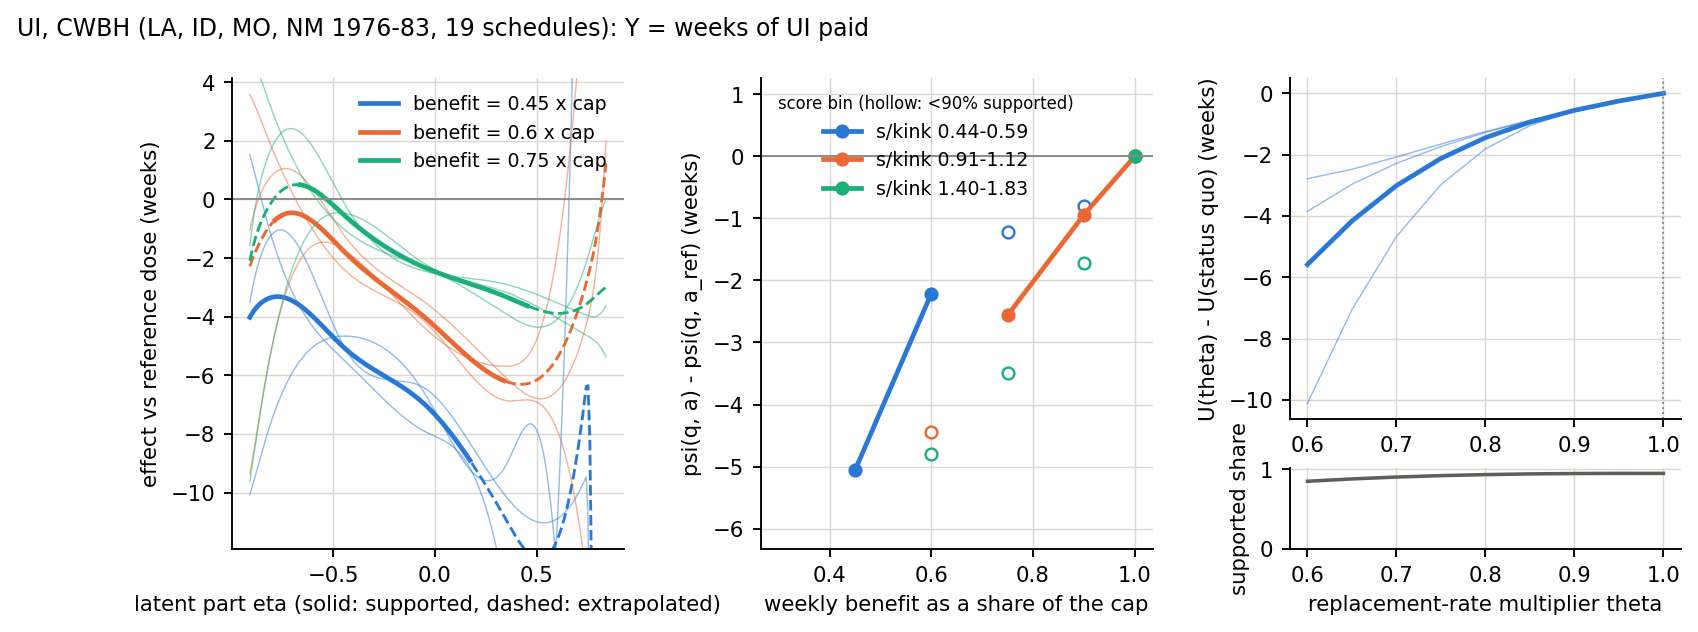
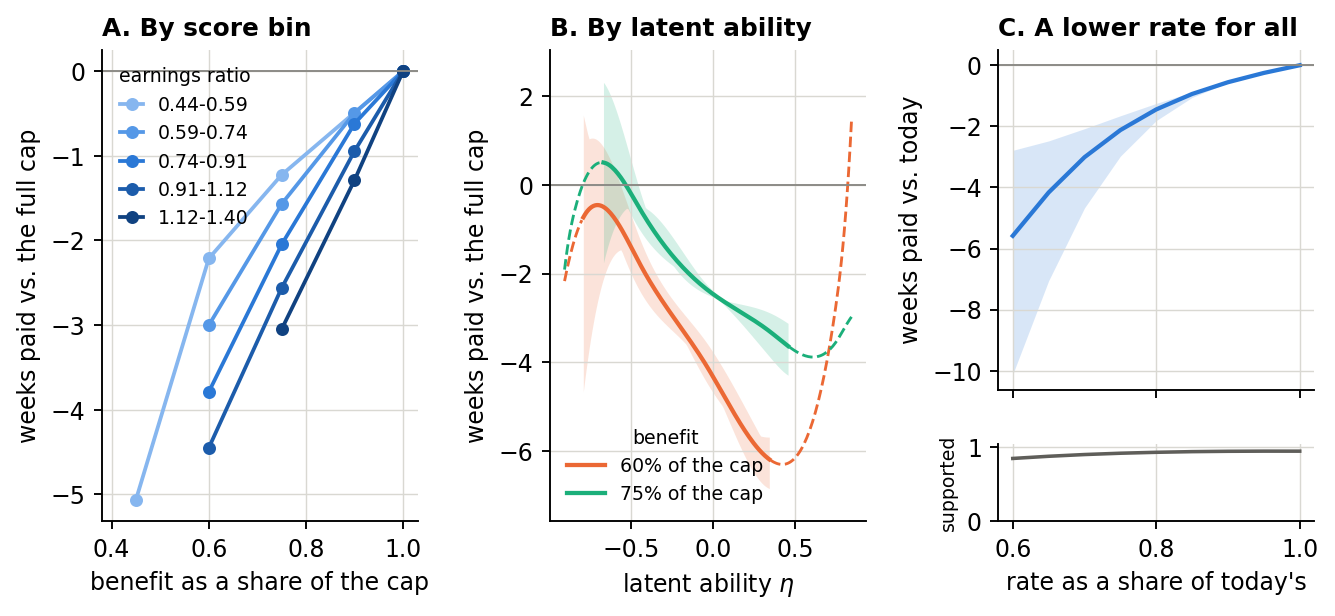
UI Fig. 1 redrawn in plain words (Table 2 bins, rotation bands); research log

diff --git a/experiments/scripts/dose_schedule_figures.py b/experiments/scripts/dose_schedule_figures.py
@@ -141,27 +141,114 @@ def ui(outcome):
     return fig
 
 
+BLUES = ["#86b6ef", "#5598e7", "#2a78d6", "#1c5cab", "#104281"]   # reference ordinal ramp, steps 250-650
+MUTED = "#5f5e5a"
+
+
+def _panel_title(ax, text):
+    ax.set_title(text, loc="left", fontsize=10.5, fontweight="bold")
+
+
 def cwbh(outcome):
+    with plt.rc_context({"font.size": 10}):
+        return _cwbh(outcome)
+
+
+def _cwbh(outcome):
+    """Paper figure (Treatment Intensities, Fig. 1), in plain words.
+
+    A: Table 2 as a picture: change in weeks paid against the full cap, one line per score bin, cells
+       shown under Table 2's rule (coverage >= 85%, rotation sd <= 2 weeks).
+    B: the same effect by latent ability, 60% and 75% of the cap; band = range over the three
+       rotations where the latent ability is supported, dashed mean where extrapolated.
+    C: every claimant's replacement rate scaled by theta with the cap fixed (no budget): change in
+       mean weeks paid, band = range over rotations; lower strip = share of claimants supported.
+    """
     args = argparse.Namespace(x="linear", outcome=outcome, seed=0)
     cfg = app.cwbh(args)
     prob = cfg["prob"]
+    a_ref = prob.basis.a_ref
+    fig = plt.figure(figsize=(9.2, 3.6))
+    gs = fig.add_gridspec(4, 3, hspace=0.7, wspace=0.42)
+
+    # A. by score bin
+    ax = fig.add_subplot(gs[:, 0])
+    est = ds.estimate(prob, seed=0, a_grid=cfg["a_grid"], score_edges=cfg["edges"], n_bins=cfg["n_bins"] or 10,
+                      cluster=cfg["cluster"])
+    _, eta_all, _ = ds.first_stage(prob.Q, prob.X, np.ones(len(prob.Q), bool))
+    cov = ds.coverage(eta_all, prob.A, prob.Q, est["edges"], est["a_grid"], a_ref, levels=None, band=0.04)
+    j0 = int(np.argmin(np.abs(est["a_grid"] - a_ref)))
+    eff = est["psi"] - est["psi"][:, [j0]]
+    sd = (est["psi_rot"] - est["psi_rot"][:, :, [j0]]).std(0)
+    print("  A: change in weeks vs the cap by score bin (Table 2 cells)")
+    for c, i in zip(BLUES, range(1, 6)):
+        ok = (np.round(100 * cov[i]) >= 85) & (sd[i] <= 2.0)      # Table 2's rule, coverage rounded
+        ok[j0] = True
+        lo, hi = np.exp(est["edges"][i:i + 2])
+        ax.plot(est["a_grid"][ok], eff[i][ok], "o-", color=c, ms=4.5, lw=1.6, label=f"{lo:.2f}-{hi:.2f}")
+        print("    %.2f-%.2f: " % (lo, hi) + " ".join(f"{a:g}:{e:+.1f}" for a, e, o in zip(est["a_grid"], eff[i], ok) if o))
+    ax.axhline(0, color="#8a8984", lw=0.8)
+    ax.set_xlim(0.38, 1.03)
+    ax.set_xlabel("benefit as a share of the cap")
+    ax.set_ylabel("weeks paid vs. the full cap")
+    ax.legend(frameon=False, fontsize=8, title="earnings ratio", title_fontsize=8,
+              loc="upper left", handlelength=1.2)
+    _panel_title(ax, "A. By score bin")
+    ylim_a = ax.get_ylim()
+
+    # B. by latent ability
+    ax = fig.add_subplot(gs[:, 1])
     fits = rotation_fits(prob, cluster=cfg["cluster"])
-    fig = plt.figure(figsize=(11, 3.6))
-    gs = fig.add_gridspec(4, 3, hspace=0.6, wspace=0.35)
-    alpha_panel(fig.add_subplot(gs[:, 0]), prob, fits, [0.45, 0.6, 0.75], "weeks", lambda a: f"benefit = {a:g} x cap")
-    edges = cfg["edges"]
-    bins = [(1, "s/kink %.2f-%.2f" % tuple(np.exp(edges[1:3]))), (4, "s/kink %.2f-%.2f" % tuple(np.exp(edges[4:6]))),
-            (6, "s/kink %.2f-%.2f" % tuple(np.exp(edges[6:8])))]
-    psi_panel(fig.add_subplot(gs[:, 1]), prob, cfg, bins, "weeks", "weekly benefit as a share of the cap")
+    e_grid = np.linspace(*np.quantile(eta_all[prob.in_range], [0.025, 0.975]), 200)
+    width = 0.05 * (prob.A.max() - prob.A.min())
+    print("  B: effect by latent ability (mean over rotations)")
+    lo_y, hi_y = ylim_a
+    for c, a, name in [(COLORS[1], 0.6, "60% of the cap"), (COLORS[2], 0.75, "75% of the cap")]:
+        near = np.abs(prob.A - a) <= width
+        e_lo, e_hi = np.quantile(eta_all[near], [0.025, 0.975])
+        inside = (e_grid >= e_lo) & (e_grid <= e_hi)
+        curves = []
+        for fit, eta, ev in fits:
+            zbar = float(np.mean(prob.Z[ev] @ fit.tau)) if prob.Z.shape[1] else 0.0
+            curves.append(fit.f(e_grid, np.full(len(e_grid), a)) + (a - a_ref) * zbar)
+        curves = np.array(curves)
+        m = curves.mean(0)
+        ax.fill_between(e_grid[inside], curves.min(0)[inside], curves.max(0)[inside], color=c, alpha=0.18, lw=0)
+        ax.plot(e_grid[inside], m[inside], color=c, lw=1.8, label=name)
+        ax.plot(e_grid, np.where(inside, np.nan, m), color=c, ls="--", lw=1.2)
+        lo_y, hi_y = min(lo_y, curves.min(0)[inside].min()), max(hi_y, curves.max(0)[inside].max())
+        print(f"    {name}: supported eta {e_lo:.2f} to {e_hi:.2f}; " +
+              " ".join(f"eta={e:+.1f}:{np.interp(e, e_grid, m):+.1f}" for e in (-0.7, -0.4, 0.0, 0.2, 0.4)))
+    ax.axhline(0, color="#8a8984", lw=0.8)
+    pad = 0.08 * (hi_y - lo_y)
+    ax.set_ylim(lo_y - pad, hi_y + pad)
+    ax.set_xlabel("latent ability $\\eta$")
+    ax.set_ylabel("weeks paid vs. the full cap")
+    ax.legend(frameon=False, fontsize=8, loc="lower left", title="benefit", title_fontsize=8)
+    _panel_title(ax, "B. By latent ability")
+
+    # C. a lower replacement rate for everyone, cap fixed
+    ax, ax2 = fig.add_subplot(gs[:3, 2]), fig.add_subplot(gs[3, 2])
     floor = prob.a_lo
 
     def family(th, Q, idx):
         return np.clip(th * np.exp(Q), floor, 1.0)
     thetas = np.linspace(0.6, 1.0, 9)
-    u_panels(fig.add_subplot(gs[:3, 2]), fig.add_subplot(gs[3, 2]), prob, cfg, family, thetas, 1.0, "weeks",
-             "replacement-rate multiplier theta")
-    lab = {"weeks_paid": "weeks of UI paid", "duration": "claimed duration (weeks)"}[outcome]
-    fig.suptitle(f"UI, CWBH (LA, ID, MO, NM 1976-83, 19 schedules): Y = {lab}", fontsize=10, x=0.01, ha="left")
+    vals, sup = ds.family_value(prob, family, thetas, seed=0, cluster=cfg["cluster"])
+    vals = vals - vals[:, [len(thetas) - 1]]
+    ax.fill_between(thetas, vals.min(0), vals.max(0), color=COLORS[0], alpha=0.18, lw=0)
+    ax.plot(thetas, vals.mean(0), color=COLORS[0], lw=1.8)
+    ax.axhline(0, color="#8a8984", lw=0.8)
+    ax.set_ylabel("weeks paid vs. today")
+    ax.tick_params(labelbottom=False)
+    _panel_title(ax, "C. A lower rate for all")
+    ax2.plot(thetas, sup.mean(0), color=MUTED, lw=1.5)
+    ax2.set_ylim(0, 1.05)
+    ax2.set_ylabel("supported", fontsize=8)
+    ax2.set_xlabel("rate as a share of today's")
+    print("  C: theta, mean, rotation min, max, supported share")
+    for t, m_, lo_, hi_, sh in zip(thetas, vals.mean(0), vals.min(0), vals.max(0), sup.mean(0)):
+        print(f"    {t:5.2f} {m_:7.2f} {lo_:7.2f} {hi_:7.2f} {sh:6.3f}", flush=True)
     return fig
 
 

diff --git a/RESEARCH_LOG.md b/RESEARCH_LOG.md
@@ -74,6 +74,20 @@ under the computing rule in PROJECT_SCOPE.md; this run had already started on th
 - **Paper** (manuscript 3396717): §5.2 paragraph on full-sample reuse; Appendix 7 table
   `tab:ds-dep-path` and paragraph; two sentences in §5.6.
 
+## 2026-11-19 - Treatment Intensities: budget without c; UI Fig. 1 redrawn in plain words (Claude)
+
+Author: c is redundant once total cost is budgeted ("Fix it"), and 6.2 was hard to read. The
+budget-neutral solver already had no c (`free_redesign` minimizes weeks minus lambda times spending);
+the draft's 5.3 now matches it, with lambda read as the value of a unit of spending that the budget
+implies. `dose_schedule_figures.py cwbh` redraws Fig. 1 from the same fits (seed 0, main
+specification): (A) Table 2 as lines, reproducing every cell including the two at coverage 84.9%,
+which Table 2 rounds to 85%; (B) effect by latent ability with the rotation range as a band, now
+read only on the supported part: at 60% of the cap -0.5, -2.1, -4.3, -5.6 weeks at eta = -0.7, -0.4,
+0, 0.2 (supported to 0.35; the draft's earlier "-6 at eta = 0.4" was an extrapolated value); at 75%
++0.5, -0.8, -2.5, -2.9, -3.5 at eta = -0.7, -0.4, 0, 0.2, 0.4; (C) a common rate cut, cap fixed, no
+budget: -0.56, -1.45, -3.01, -5.58 weeks at 90, 80, 70, 60% of today's rate (rotation range at 60%:
+-10.1 to -2.8), supported share 0.95 falling to 0.85. Manuscript 16a9912.
+
 ## 2026-11-19 - UI rescaling leaves eta unchanged except in 6 cells; Treatment Intensities edits (Claude)
 
 Checked why measuring the UI score relative to each claim's own schedule is harmless. The rescaling
